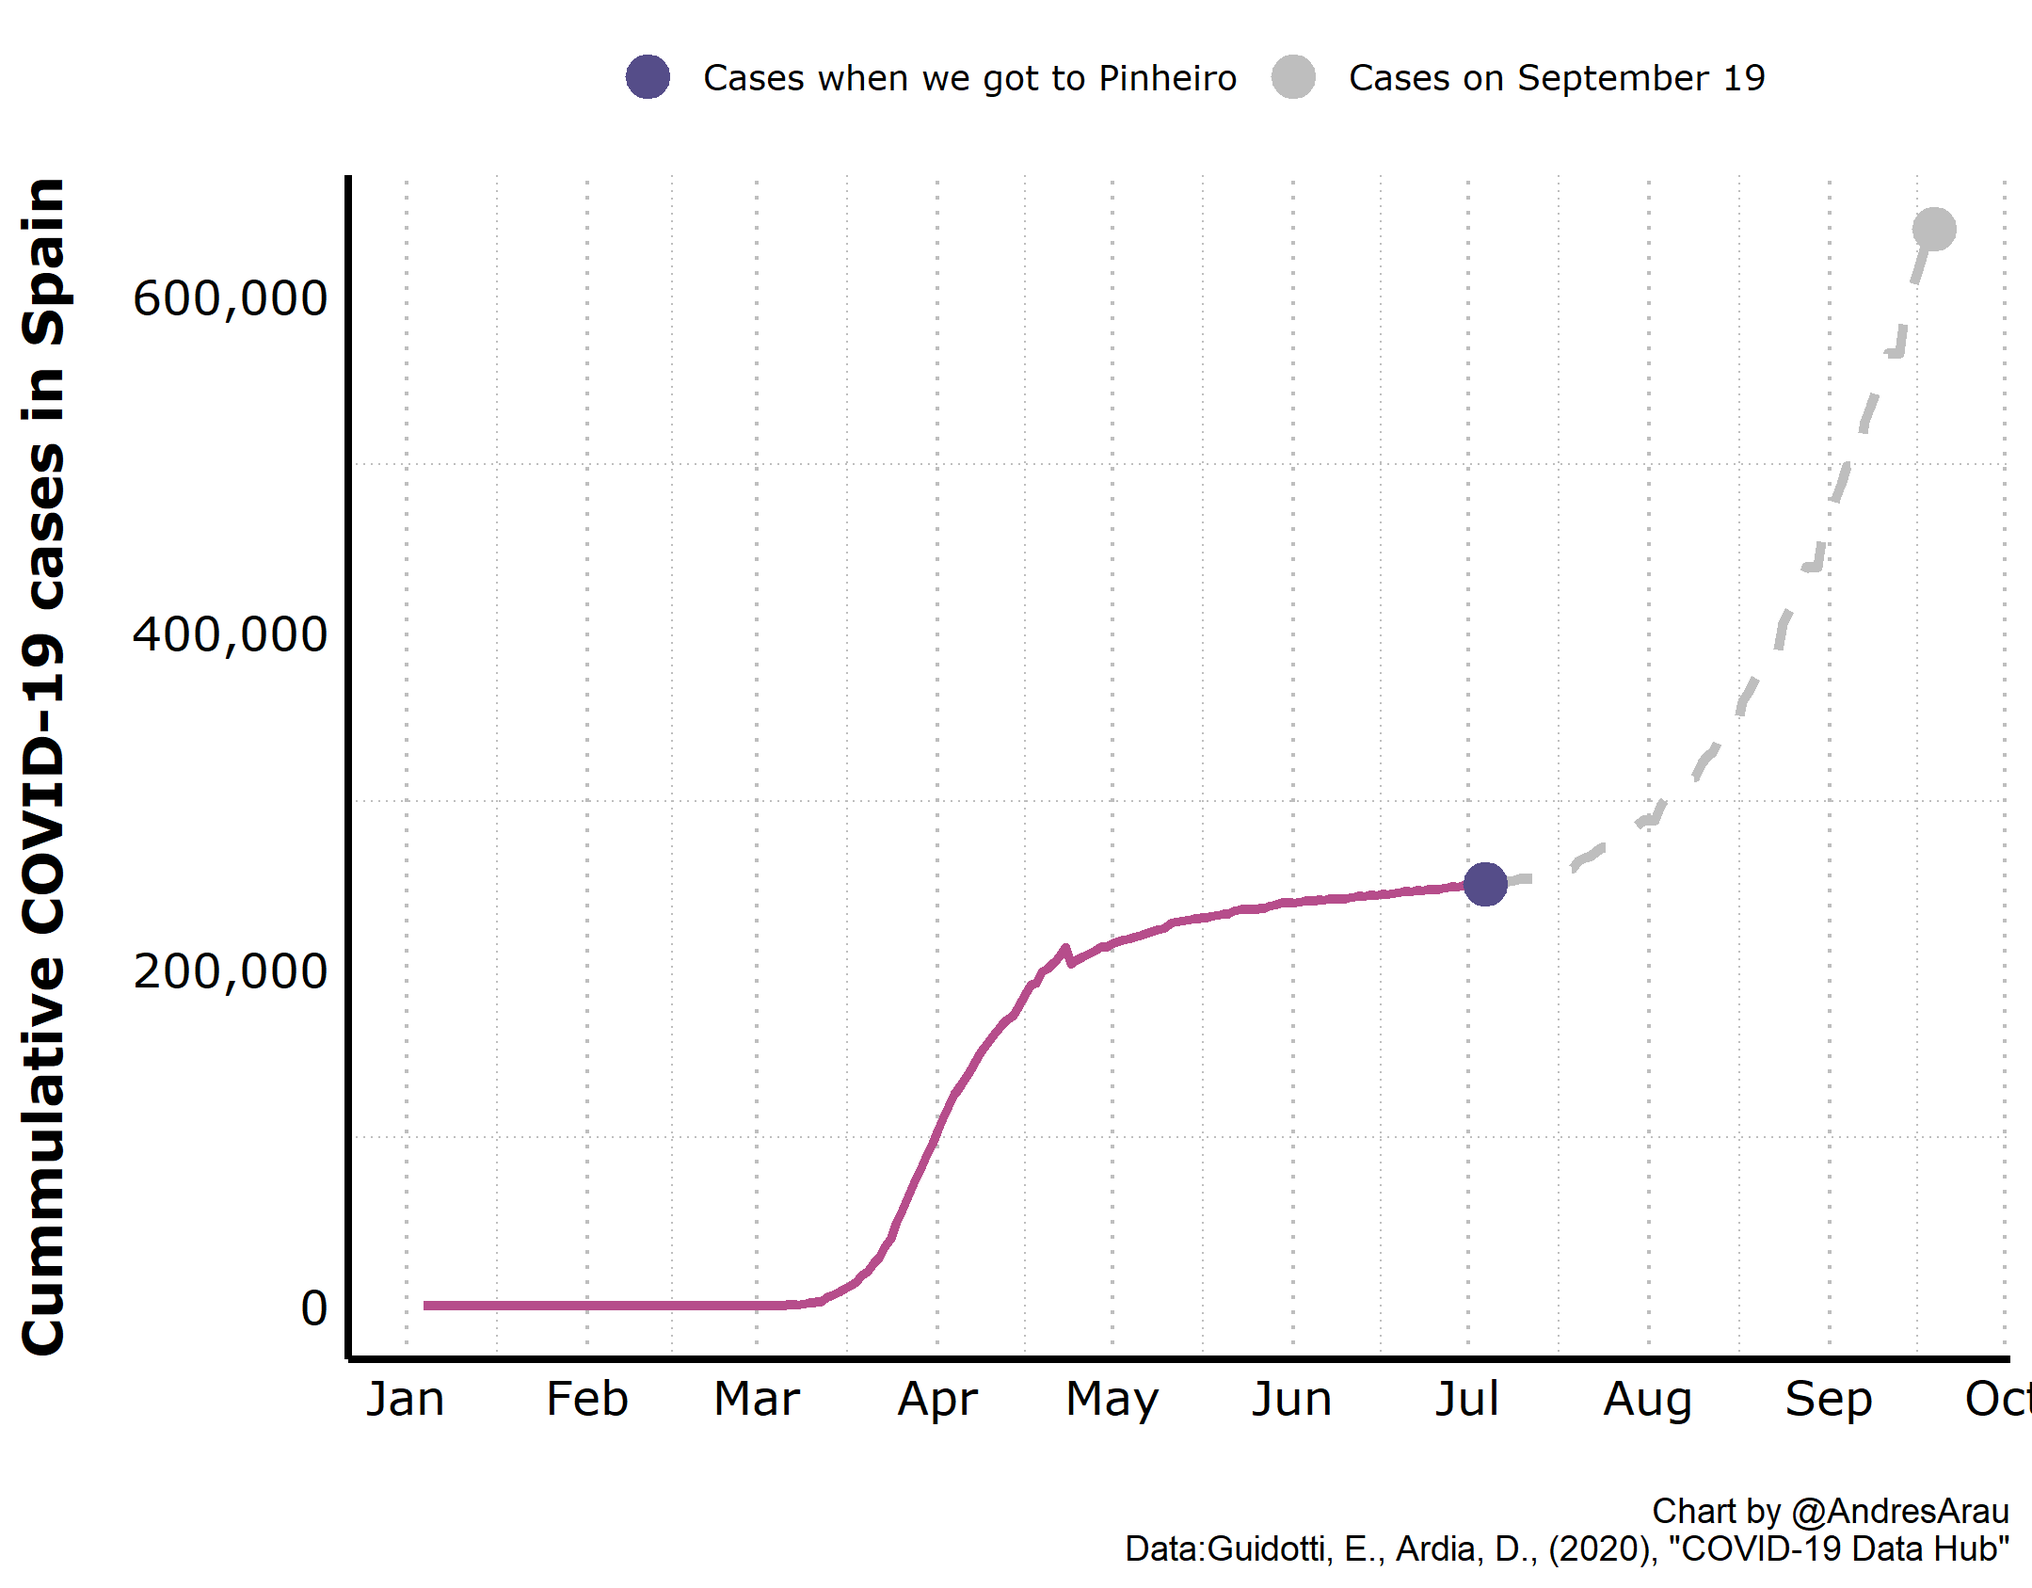
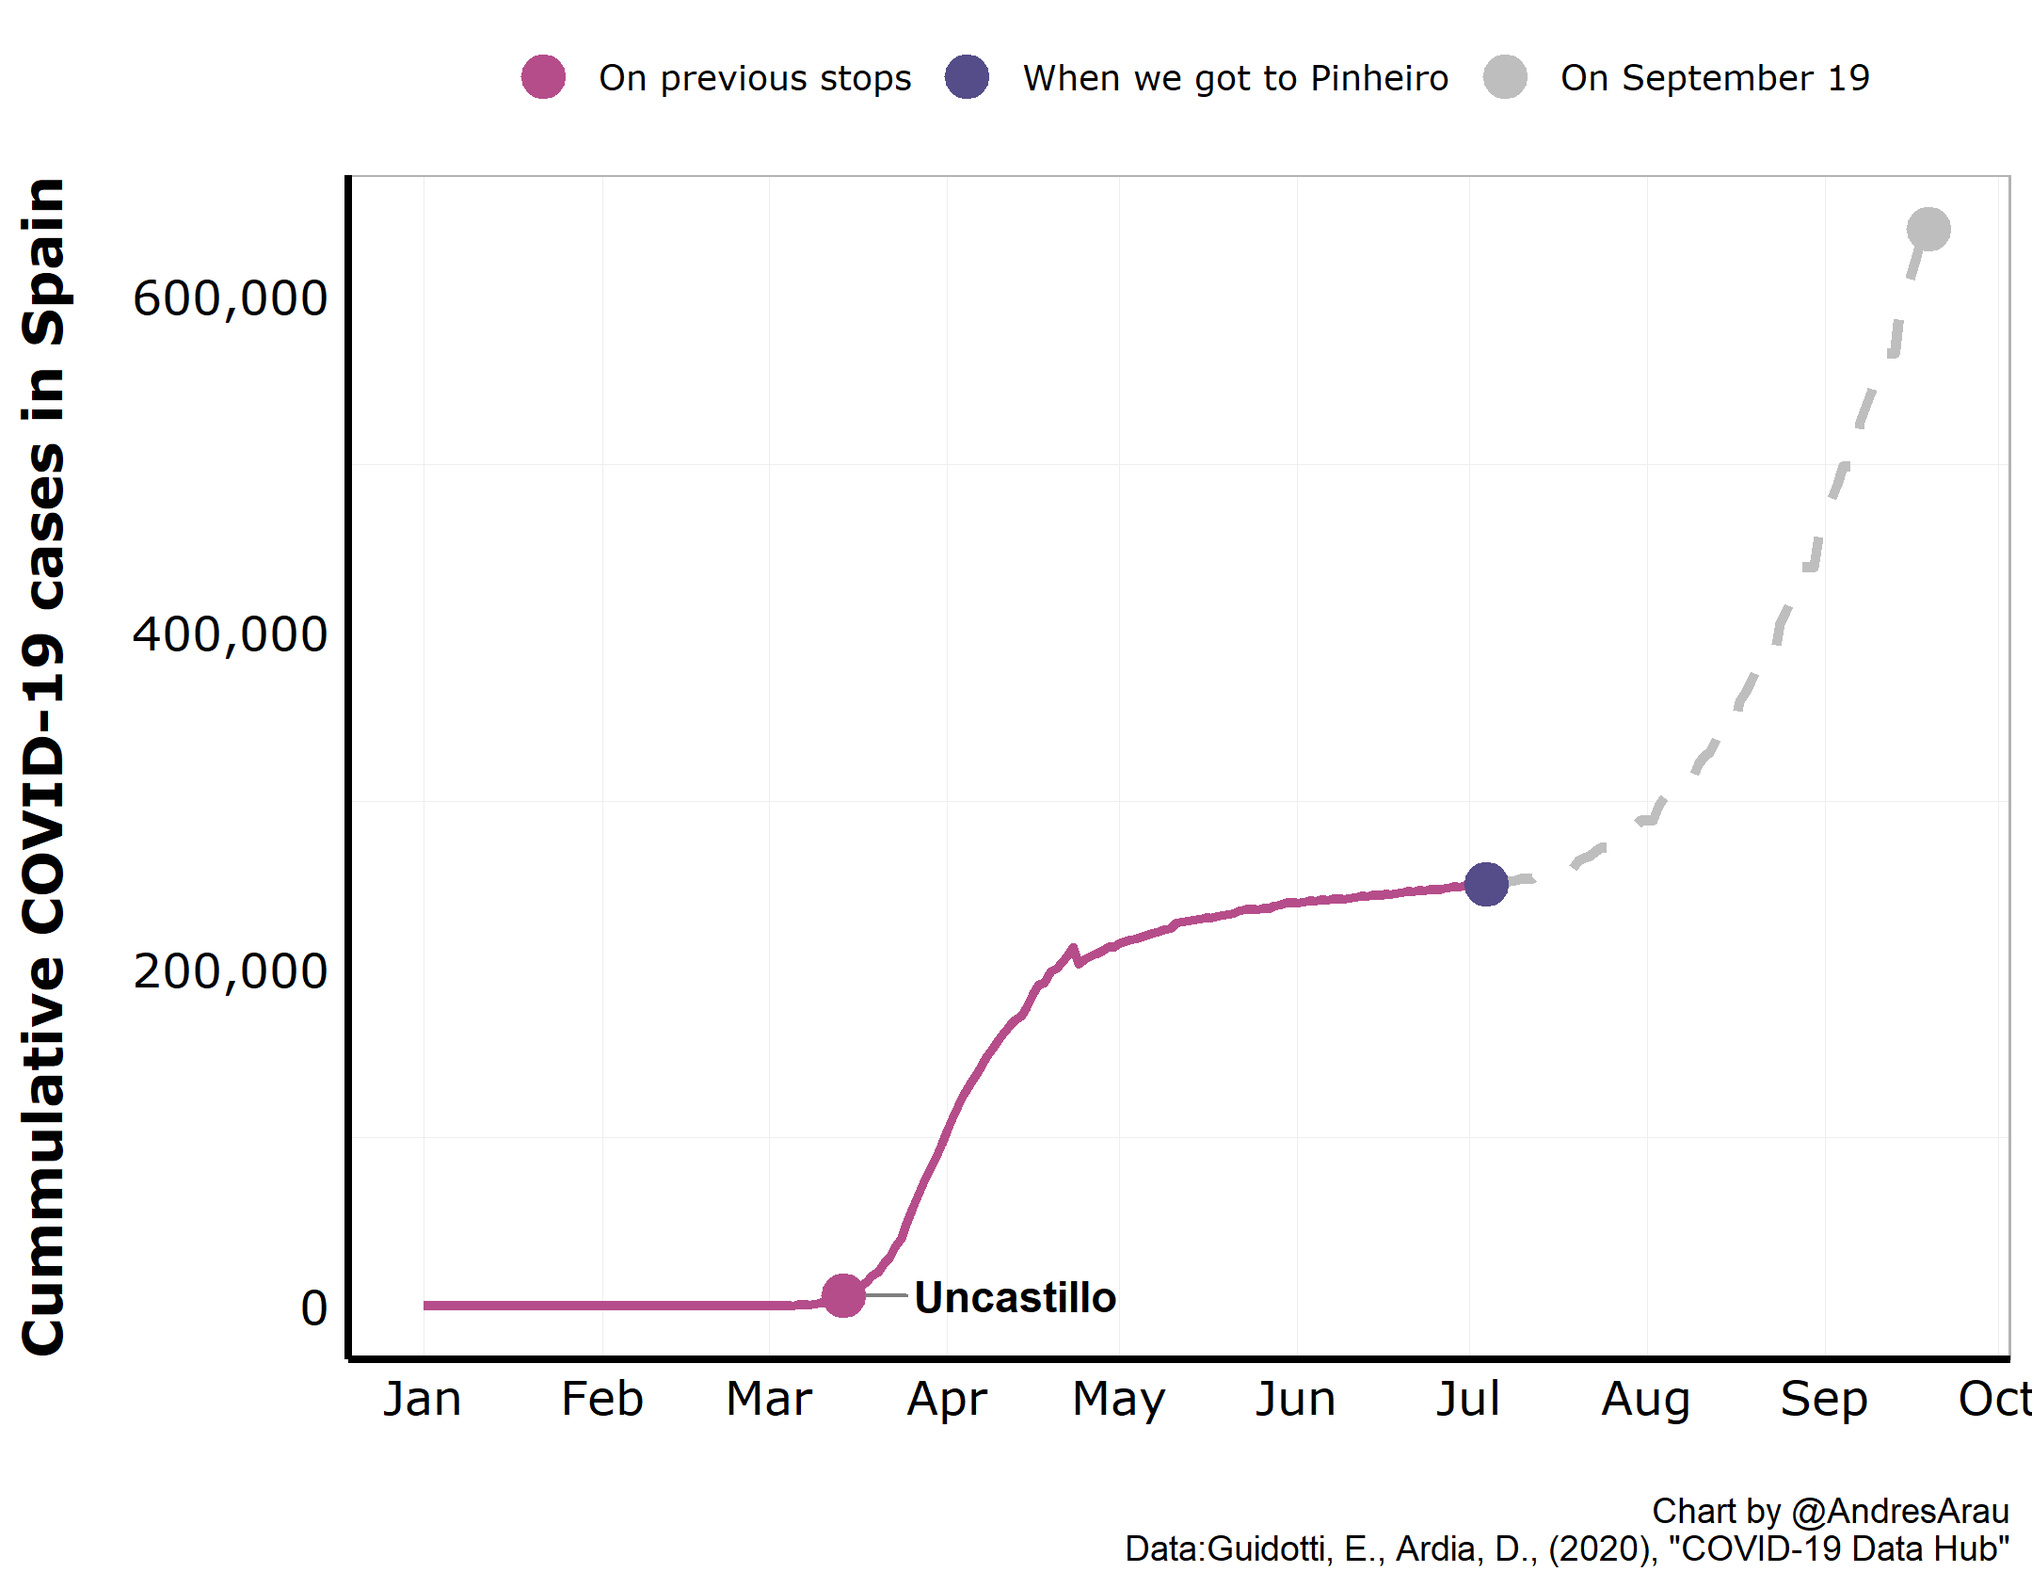
Cinfaes reviewed

diff --git a/content/post/2020-09-15-pinheiro.html b/content/post/2020-09-15-pinheiro.html
@@ -13,50 +13,14 @@ image: /Cinfaes/cinfaes.jpg
 <li><p><b>Confirmed COVID-19 cases in Spain when we got there:</b> 250,545</p></li>
 </ul>
 <hr>
-<p>A bit of a background here! Back in 2017, we were honoured to become part of the Monitoring, Evaluation, and Learning team for <a href="https://muvamoz.co.mz/?lang=en">MUVA</a>, an innovative programme aimed to improve access to the labour market for young women in Mozambique. The nature of the work in this project is extremely collaborative and requires constant communication with the local team (+ super fun trips to Maputo!), so being able to properly communicate in Portuguese has always been the goal. We must say here that our colleagues are extremely understanding and patient with our ‘portuñol’ skills, but when the road trip idea started to take shape, we were clear about the next stop.</p>
-<p>Portugal did extremely well in keeping COVID-19 under control, so they were particularly cautious about opening the border with Spain. The ban was officially lifted on July 1st, but we were ready: we made it to Pinheiro three days later.</p>
+<p>A bit of a background here! Back in 2017, we were honoured to become part of the Monitoring, Evaluation, and Learning team for <a href="https://muvamoz.co.mz/?lang=en">MUVA</a>, an innovative programme aimed to improve access to the labour market for young women in Mozambique. The nature of the work in this project is extremely collaborative and requires constant communication with the local team (+ super fun trips to Maputo!). So, although our colleagues are extremely understanding and patient with our ‘portuñol’ skills, improving our Portuguese has always been the goal. This is why when the road trip idea started to take shape, we were clear about the next stop.</p>
+<p>Portugal did extremely well in keeping COVID-19 under control, and they were particularly cautious about opening the border with Spain. The ban was officially lifted on July 1st, but we were ready: we made it to Pinheiro three days later.</p>
 <p>Our time there gravitated around some key daily moments: i) fresh corn bread delivered home by home at 10.00am, ii) same procedure for fresh sardines at 12.00pm, and iii) quick visit to the local pond after work. We are not quite sure how much we improved our Portuguese, but our neighbours are still probably laughing at our random attempts to start a conversation.</p>
 <p>Speaking of MUVA, this is probably the best place to congratulate the team for successfully organizing the annual Programme Reflection Week online, and with more than 20 attendees across three continents. A big shout as well to the Analytics Team at the <a href="https://gmdac.iom.int/">International Organization for Migration</a>, which Andrés is part of, for finalizing their study on the inclusion of Venezuelan refugees and migrants in Latin America.</p>
 <hr>
-<div id="covid-19-tracker" class="section level1">
-<h1>COVID-19 tracker</h1>
-<!-- Styles and javascript for slideshows -->
-<head>
-<link rel="stylesheet" href="/css/style_slideshow.css">
-</head>
-<script src="/javascripts/slide_show.js"></script>
-<!-- Slideshow container -->
-<div class="slideshow-container">
-<!-- Full-width images with number and caption text -->
-<div class="mySlides fade hide">
-<div class="numbertext">
-1 / 2
-</div>
-<img src="/images/Uncastillo/chart_Uncastillo.png" style="width:100%">
-<div class="text">
-Uncastillo, Aragón
-</div>
-</div>
-<div class="mySlides fade">
-<div class="numbertext">
-2 / 2
-</div>
-<img src="/images/Cinfaes/chart_Pinheiro.png" style="width:100%">
-<div class="text">
-Pinheiro, Cinfaes
-</div>
-</div>
-<p><!-- Next and previous buttons -->
-<a class="prev" onclick="plusSlides(-1)">❮</a>
-<a class="next" onclick="plusSlides(1)">❯</a></p>
-</div>
-<p><br></p>
-<!-- The dots/circles -->
-<div style="text-align:center">
-<p><span class="dot" onclick="currentSlide(1)"></span>
-<span class="dot" onclick="currentSlide(2)"></span></p>
-</div>
-<hr>
+<div id="tracking-covid-19-along-the-road" class="section level1">
+<h1>Tracking COVID-19 along the road</h1>
+<p><img src="/images/Cinfaes/chart_Pinheiro.png"></p>
 </div>
 <div id="photo-album" class="section level1">
 <h1>Photo album</h1>

diff --git a/public/post/pinheiro/index.html b/public/post/pinheiro/index.html
@@ -68,50 +68,14 @@
 <li><p><b>Confirmed COVID-19 cases in Spain when we got there:</b> 250,545</p></li>
 </ul>
 <hr>
-<p>A bit of a background here! Back in 2017, we were honoured to become part of the Monitoring, Evaluation, and Learning team for <a href="https://muvamoz.co.mz/?lang=en">MUVA</a>, an innovative programme aimed to improve access to the labour market for young women in Mozambique. The nature of the work in this project is extremely collaborative and requires constant communication with the local team (+ super fun trips to Maputo!), so being able to properly communicate in Portuguese has always been the goal. We must say here that our colleagues are extremely understanding and patient with our ‘portuñol’ skills, but when the road trip idea started to take shape, we were clear about the next stop.</p>
-<p>Portugal did extremely well in keeping COVID-19 under control, so they were particularly cautious about opening the border with Spain. The ban was officially lifted on July 1st, but we were ready: we made it to Pinheiro three days later.</p>
+<p>A bit of a background here! Back in 2017, we were honoured to become part of the Monitoring, Evaluation, and Learning team for <a href="https://muvamoz.co.mz/?lang=en">MUVA</a>, an innovative programme aimed to improve access to the labour market for young women in Mozambique. The nature of the work in this project is extremely collaborative and requires constant communication with the local team (+ super fun trips to Maputo!). So, although our colleagues are extremely understanding and patient with our ‘portuñol’ skills, improving our Portuguese has always been the goal. This is why when the road trip idea started to take shape, we were clear about the next stop.</p>
+<p>Portugal did extremely well in keeping COVID-19 under control, and they were particularly cautious about opening the border with Spain. The ban was officially lifted on July 1st, but we were ready: we made it to Pinheiro three days later.</p>
 <p>Our time there gravitated around some key daily moments: i) fresh corn bread delivered home by home at 10.00am, ii) same procedure for fresh sardines at 12.00pm, and iii) quick visit to the local pond after work. We are not quite sure how much we improved our Portuguese, but our neighbours are still probably laughing at our random attempts to start a conversation.</p>
 <p>Speaking of MUVA, this is probably the best place to congratulate the team for successfully organizing the annual Programme Reflection Week online, and with more than 20 attendees across three continents. A big shout as well to the Analytics Team at the <a href="https://gmdac.iom.int/">International Organization for Migration</a>, which Andrés is part of, for finalizing their study on the inclusion of Venezuelan refugees and migrants in Latin America.</p>
 <hr>
-<div id="covid-19-tracker" class="section level1">
-<h1>COVID-19 tracker</h1>
-<!-- Styles and javascript for slideshows -->
-<head>
-<link rel="stylesheet" href="/css/style_slideshow.css">
-</head>
-<script src="/javascripts/slide_show.js"></script>
-<!-- Slideshow container -->
-<div class="slideshow-container">
-<!-- Full-width images with number and caption text -->
-<div class="mySlides fade hide">
-<div class="numbertext">
-1 / 2
-</div>
-<img src="/images/Uncastillo/chart_Uncastillo.png" style="width:100%">
-<div class="text">
-Uncastillo, Aragón
-</div>
-</div>
-<div class="mySlides fade">
-<div class="numbertext">
-2 / 2
-</div>
-<img src="/images/Cinfaes/chart_Pinheiro.png" style="width:100%">
-<div class="text">
-Pinheiro, Cinfaes
-</div>
-</div>
-<p><!-- Next and previous buttons -->
-<a class="prev" onclick="plusSlides(-1)">❮</a>
-<a class="next" onclick="plusSlides(1)">❯</a></p>
-</div>
-<p><br></p>
-<!-- The dots/circles -->
-<div style="text-align:center">
-<p><span class="dot" onclick="currentSlide(1)"></span>
-<span class="dot" onclick="currentSlide(2)"></span></p>
-</div>
-<hr>
+<div id="tracking-covid-19-along-the-road" class="section level1">
+<h1>Tracking COVID-19 along the road</h1>
+<p><img src="/images/Cinfaes/chart_Pinheiro.png"></p>
 </div>
 <div id="photo-album" class="section level1">
 <h1>Photo album</h1>

diff --git a/public/post/emoji-support/index.html b/public/post/emoji-support/index.html
@@ -74,7 +74,7 @@
 <p>During this time, work kept us extremely busy. May was the deadline to deliver the first Evaluation Report for <a href="https://www.ukpact.co.uk/">UK PACT</a> and the whole team was working around the clock. All the related in-country missions had been cancelled and replaced with <i>Microsoft Teams</i>-based meetings. Stakeholders were trained remotely, and primary data collected over the phone and consistenly entered into our online <a href="https://www.ukpactmel.com/">Results Management System</a>. We also worked on finalising the evaluation of the <a href="https://www.iaea.org/">International Atomic Energy Agency</a>'s Regional Cooperative Agreement for Research, Development and Training Related to Nuclear Science and Technology for Asia and the Pacific.</p>
 <p>These months also helped Marti in her quest to get Andrés into Ashtanga Yoga, and walking Silvio in the mountains became the most precious moment of the day. And little by little we ended up realising that getting back to the urban scene did not make sense just yet. We cancelled the rent of our flat in Madrid, packed up, and started a road trip that does not have an end date for now.</p>
 <hr>
-<h1 id="covid-19-tracker">COVID-19 tracker</h1>
+<h1 id="tracking-covid-19-along-the-road">Tracking COVID-19 along the road</h1>
 <p><img src = '/images/Uncastillo/chart_Uncastillo.png' style = "width:100% ; display: block;
 margin-left: auto;
 margin-right: auto; !important; "></p>

diff --git a/themes/newsroom/layouts/index.html b/themes/newsroom/layouts/index.html
@@ -2,7 +2,7 @@
 
 {{- $pages := where site.RegularPages "Type" "in" site.Params.mainSections }}
 <div class = 'wrap pt-2 mt-2'>
-  <p style = "font-size:125% !important; margin-top:30px !important">The story of how two development economists based out of Madrid reconsider their priorities after living under strict lockdown for almost 100 days in a rural area in northern Spain. An attempt to make the so-called ‘nomad’ lifestyle work while calculating standard errors, <i>ggplotting</i>, and ultimately promoting evidence-based policymaking.</p>
+  <p style = "font-size:125% !important; margin-top:30px !important">The story of how two development economists based out of Madrid reconsider their priorities after living under strict lockdown for almost 100 days in a rural area in northern Spain. Trying to adapt to this new COVID-19 world, and exclusively visiting low densely populated areas where social distancing can be guaranteed and maximized, this is an attempt to make the so-called ‘nomad’ lifestyle work while calculating standard errors, <i>ggplotting</i>, and ultimately promoting evidence-based policymaking. </p>
   
   
   {{- $paginator := .Paginate $pages -}}

diff --git a/content/post/2020-09-12-who-we-are.html b/content/post/2020-09-12-who-we-are.html
@@ -7,7 +7,7 @@ slug: uncastillo
 
 
 
-<p>The story of how two development economists based out of Madrid reconsider their priorities after living under strict lockdown for almost 100 days in a rural area in northern Spain. An attempt to make the so-called ‘nomad’ lifestyle work while calculating standard errors, <em>ggplotting</em>, and ultimately promoting evidence-based policymaking.</p>
+<p>The story of how two development economists based out of Madrid reconsider their priorities after living under strict lockdown for almost 100 days in a rural area in northern Spain. Trying to adapt to this new COVID-19 world, and exclusively visiting low densely populated areas where social distancing can be guaranteed and maximized, this is an attempt to make the so-called ‘nomad’ lifestyle work while calculating standard errors, <em>ggplotting</em>, and ultimately promoting evidence-based policymaking.</p>
 <div id="andrés" class="section level1">
 <h1><a href="https://www.linkedin.com/in/andr%C3%A9s-arau-017b1127/">Andrés</a></h1>
 <p><img src = '/images/andres.jpeg' style = "width:50% ; display: block;

diff --git a/public/post/uncastillo/index.html b/public/post/uncastillo/index.html
@@ -61,7 +61,7 @@
           
 
 
-<p>The story of how two development economists based out of Madrid reconsider their priorities after living under strict lockdown for almost 100 days in a rural area in northern Spain. An attempt to make the so-called ‘nomad’ lifestyle work while calculating standard errors, <em>ggplotting</em>, and ultimately promoting evidence-based policymaking.</p>
+<p>The story of how two development economists based out of Madrid reconsider their priorities after living under strict lockdown for almost 100 days in a rural area in northern Spain. Trying to adapt to this new COVID-19 world, and exclusively visiting low densely populated areas where social distancing can be guaranteed and maximized, this is an attempt to make the so-called ‘nomad’ lifestyle work while calculating standard errors, <em>ggplotting</em>, and ultimately promoting evidence-based policymaking.</p>
 <div id="andrés" class="section level1">
 <h1><a href="https://www.linkedin.com/in/andr%C3%A9s-arau-017b1127/">Andrés</a></h1>
 <p><img src = '/images/andres.jpeg' style = "width:50% ; display: block;

diff --git a/public/index.html b/public/index.html
@@ -50,7 +50,7 @@
      
       
 <div class = 'wrap pt-2 mt-2'>
-  <p style = "font-size:125% !important; margin-top:30px !important">The story of how two development economists based out of Madrid reconsider their priorities after living under strict lockdown for almost 100 days in a rural area in northern Spain. An attempt to make the so-called ‘nomad’ lifestyle work while calculating standard errors, <i>ggplotting</i>, and ultimately promoting evidence-based policymaking.</p>
+  <p style = "font-size:125% !important; margin-top:30px !important">The story of how two development economists based out of Madrid reconsider their priorities after living under strict lockdown for almost 100 days in a rural area in northern Spain. Trying to adapt to this new COVID-19 world, and exclusively visiting low densely populated areas where social distancing can be guaranteed and maximized, this is an attempt to make the so-called ‘nomad’ lifestyle work while calculating standard errors, <i>ggplotting</i>, and ultimately promoting evidence-based policymaking. </p>
     
       
     

diff --git a/content/post/emoji-support.md b/content/post/emoji-support.md
@@ -29,7 +29,7 @@ These months also helped Marti in her quest to get Andrés into Ashtanga Yoga, a
 <hr>
 
 
-# COVID-19 tracker
+# Tracking COVID-19 along the road
 
 
 <img src = '/images/Uncastillo/chart_Uncastillo.png' style = "width:100% ; display: block;
